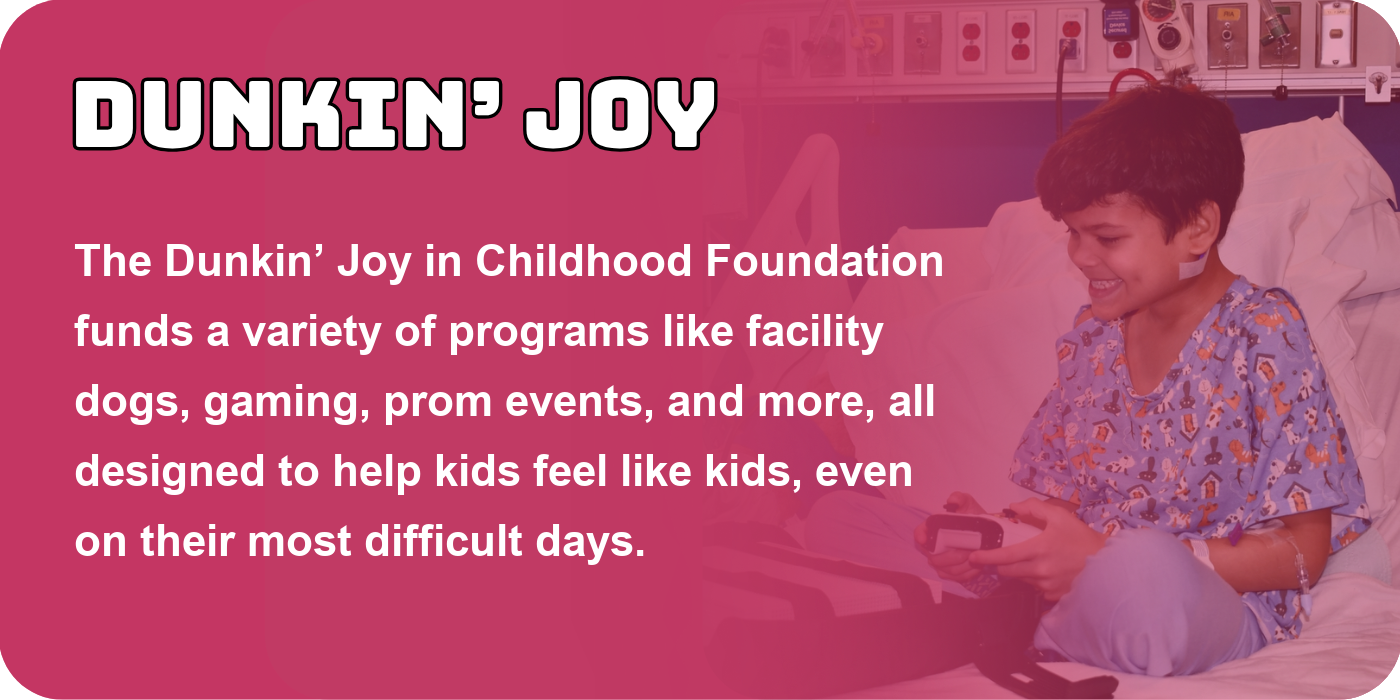
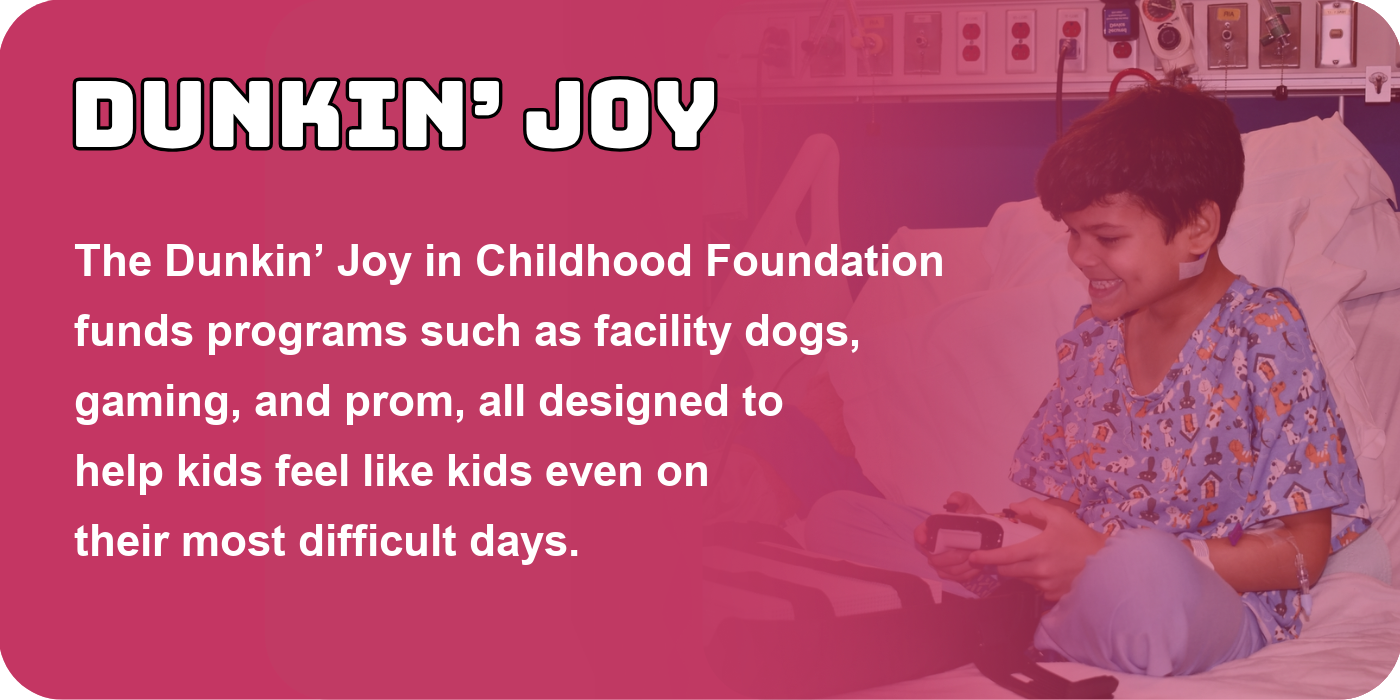
Update Dunkin' Joy button tile text on About page

diff --git a/index.html b/index.html
@@ -15462,7 +15462,7 @@
                     <img src="assets/AboutChildsPlay.png" alt="Child’s Play Charity brings the healing power of gaming to hospitalized children, providing games, technology, and therapeutic play to improve the pediatric patient experience." loading="lazy" decoding="async" />
                   </button>
                   <button class="about-partner-card card-dunkin-joy" onclick="openPartnerModal('dunkin-joy')" title="Learn about Dunkin' Joy in Childhood Foundation" aria-label="Dunkin' Joy Foundation">
-                    <img src="assets/AboutDunkinJoy.png" alt="The Dunkin’ Joy in Childhood Foundation funds a variety of programs like facility dogs, gaming, prom events, and more, all designed to help kids feel like kids, even on their most difficult days." loading="lazy" decoding="async" />
+                    <img src="assets/AboutDunkinJoy.png" alt="The Dunkin’ Joy in Childhood Foundation funds programs such as facility dogs, gaming, and prom, all designed to help kids feel like kids even on their most difficult days." loading="lazy" decoding="async" />
                   </button>
                 </div>
               </section>

diff --git a/preview/index.html b/preview/index.html
@@ -14475,7 +14475,7 @@
                     <img src="assets/AboutChildsPlay.png" alt="Child’s Play Charity brings the healing power of gaming to hospitalized children, providing games, technology, and therapeutic play to improve the pediatric patient experience." loading="lazy" decoding="async" />
                   </button>
                   <button class="about-partner-card card-dunkin-joy" onclick="openPartnerModal('dunkin-joy')" title="Learn about Dunkin' Joy in Childhood Foundation" aria-label="Dunkin' Joy Foundation">
-                    <img src="assets/AboutDunkinJoy.png" alt="The Dunkin’ Joy in Childhood Foundation funds a variety of programs like facility dogs, gaming, prom events, and more, all designed to help kids feel like kids, even on their most difficult days." loading="lazy" decoding="async" />
+                    <img src="assets/AboutDunkinJoy.png" alt="The Dunkin’ Joy in Childhood Foundation funds programs such as facility dogs, gaming, and prom, all designed to help kids feel like kids even on their most difficult days." loading="lazy" decoding="async" />
                   </button>
                 </div>
               </section>

diff --git a/sw.js b/sw.js
@@ -1,5 +1,5 @@
 // Riley PWA Service Worker
-const CACHE_NAME = 'riley-pwa-v322';
+const CACHE_NAME = 'riley-pwa-v323';
 const PRECACHE_ASSETS = [
   './',
   './index.html',
